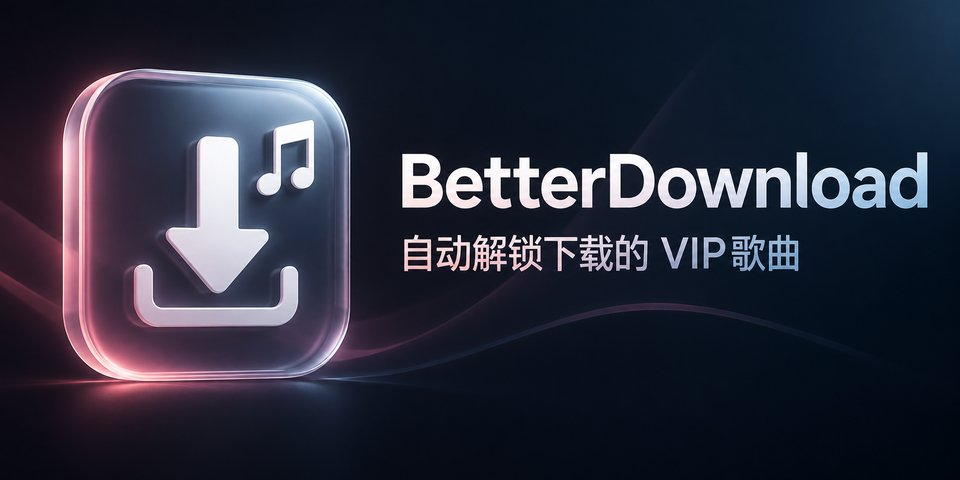
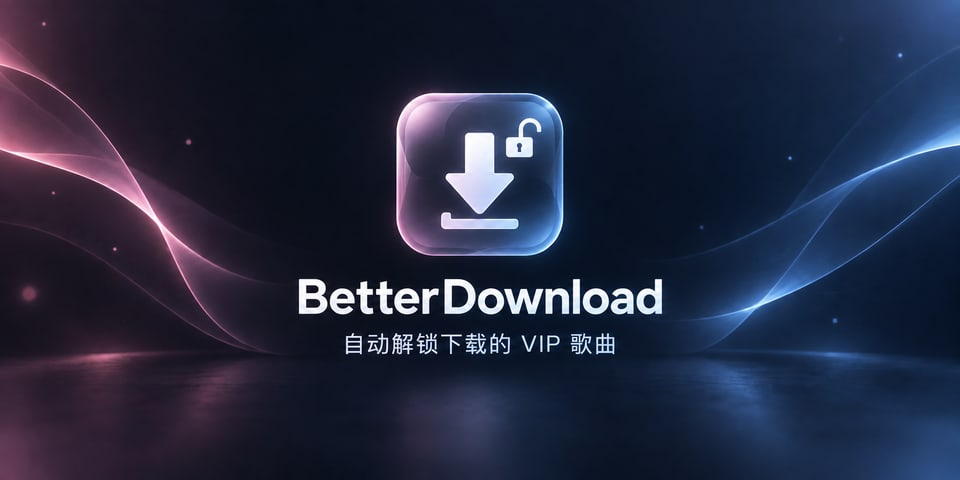
Update BetterDownload preview for 0.4.2

diff --git a/docs/STORE-PR.md b/docs/STORE-PR.md
@@ -1,23 +1,11 @@
-# 商店投稿
+# 商店更新说明
 
-标题：Add BetterDownload
+BetterDownload 0.4.2 更新预览图，将图标、名称和功能说明居中，增加左右留白。图片已压缩为 960 × 480 JPG（34,641 字节），插件运行逻辑未改动。
 
-BetterDownload 自动识别用户正常下载的 NCM 文件，下载完成后在本地转换为原始 FLAC / MP3，并内嵌已有封面与歌曲信息。普通 FLAC / MP3 无需转换。
-
-输出保存在 `VipSongsDownload/unlock`，保留源文件及歌手子目录，不覆盖已有同名音频。提供单按钮启停和毛玻璃进度卡片。
-
+- 源码：https://github.com/xiaoming6680/BetterDownload
+- 发布：https://github.com/xiaoming6680/BetterDownload/releases/tag/v0.4.2
 - 作者：XIAOMING6680
-- 源码仓库：https://github.com/xiaoming6680/BetterDownload
-- 插件目录：`/plugin`，分支：`main`，slug：`ncm-better-download`
-- 版本：0.4.1；发布：https://github.com/xiaoming6680/BetterDownload/releases/tag/v0.4.1
-- 仓库内工作程序的源码提交：`7cb2286094b25f67d1280b0310a723045ac5ca49`。
-- 工作程序编译：https://github.com/xiaoming6680/BetterDownload/actions/runs/34150136265 ，artifact `10029064170`。
[2 lines of base64/hex data omitted]
-- 发布附件构建：https://github.com/xiaoming6680/BetterDownload/actions/runs/34150239609 ，源码提交 `94948be2666b352c40d8a18cbeb7701c17764c25`，附件提供构建信息及校验文件。
-- 13 项转换与下载事件测试、Edge 界面回归通过。作者于 2026-09-08 在 BetterNCM 1.3.4 环境确认真实下载转换验收成功，输出目录及歌曲标签正常。此结果不代表全部客户端版本与插件组合均已实测。
-- 预览图为压缩 JPG，960 × 480，42,960 字节；设置页提供可点击的源码和反馈入口。
-- 代码许可：GPL-3.0-or-later；TagLibSharp 依赖附 LGPL 许可证及对应源码地址。
-- 随包工作程序由 `betterncm.app.exec` 启动。运行时不依赖第三方转换网站，不扫描下载目录。
+- 工作程序沿用已验证的 Actions 产物，构建来源见 [BUILD.md](BUILD.md)。
+- 版本安装包由标签对应的 Actions 构建，发布附件附构建信息与校验文件。
 
-构建来源详见 [BUILD.md](BUILD.md)，验证范围详见 [VALIDATION.md](VALIDATION.md)。
+首次登记 #737 已合并；此前的 0.4.1 同步申请为 #750。以 0.4.2 作为本次上架版本。

diff --git a/README.md b/README.md
@@ -4,7 +4,7 @@
 
 自动解锁下载的 VIP 歌曲。此 BetterNCM 插件在网易云正常完成下载后，将本地 NCM 提取为原始 FLAC / MP3，并把已有封面和歌曲信息写入音频文件。
 
-当前为 **0.4.1 正式版**。自动化转换测试与界面回归已通过，作者已在 BetterNCM 1.3.4 环境确认真实下载转换验收成功，输出目录及歌曲标签正常。
+当前为 **0.4.2 正式版**，本次仅更新商店预览图。自动化转换测试与界面回归已通过，作者已在 BetterNCM 1.3.4 环境确认真实下载转换验收成功，输出目录及歌曲标签正常。
 
 ## 使用方式
 

diff --git a/docs/VALIDATION.md b/docs/VALIDATION.md
@@ -1,4 +1,8 @@
-# BetterDownload 0.4.1 验证记录
+# BetterDownload 验证记录
+
+## 0.4.2 预览图更新
+
+2026-09-23：仅替换居中构图预览图及版本信息，未修改运行逻辑。预览图为 960 × 480 JPG、34,641 字节。已检查居中方形裁剪，标题及功能文案完整；商店底部信息栏仍可能覆盖图片下部，按作者选定构图发布。实际客户端功能验收记录仍以 0.4.1 为准。
 
 ## 自动化验证
 

diff --git a/CHANGELOG.md b/CHANGELOG.md
@@ -1,5 +1,10 @@
 # BetterDownload 更新记录
 
+## 0.4.2
+
+- 更新商店预览图：图标加入打开的锁，插件名和功能说明改为居中布局，增加左右留白，减少横向裁剪对文字的影响。
+- 预览图压缩为 960 × 480 JPG；下载转换及界面逻辑保持不变。
+
 ## 0.4.1
 
 - 降低卡片底色不透明度与颗粒强度，让背景颜色透过毛玻璃；保持背景模糊和清晰文字。
